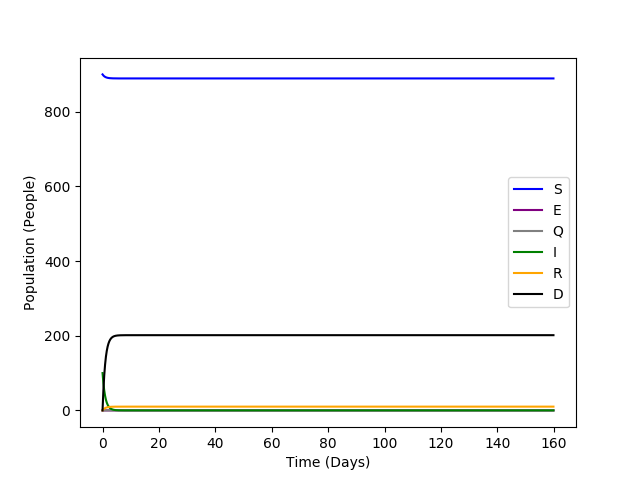
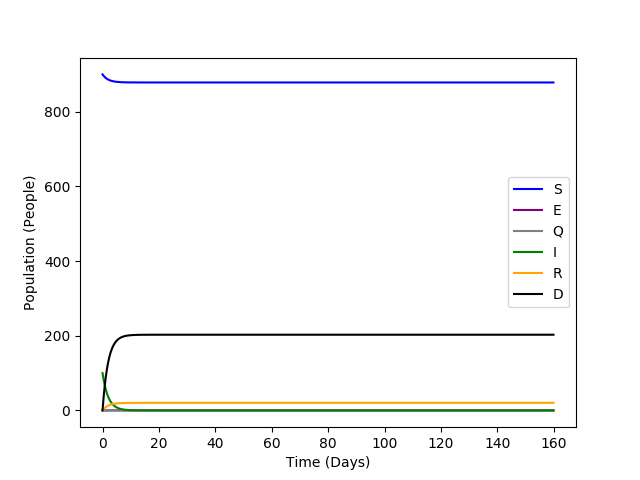
adding files

Changed region(s): [[0.1562, 0.6875, 0.875, 0.875], [0.1562, 0.1562, 0.875, 0.1875]]

diff --git a/hrenard_program3.py b/hrenard_program3.py
@@ -8,8 +8,8 @@ def runsim(
 	transmissibility = .6,                         		# infection / contact
 	contact_factor = .2,                          		# (contact / day) / person
 	mean_exposed = 2,                               	# day
-	mean_quarantine = 2,					# day
-	mean_death = 1,                                 	# day
+	mean_quarantine = 1,					# day
+	mean_death = 2,                                 	# day
 	plot = True):
 	
 	recovery_factor = 1 / mean_infectious_duration    	# 1 / day
